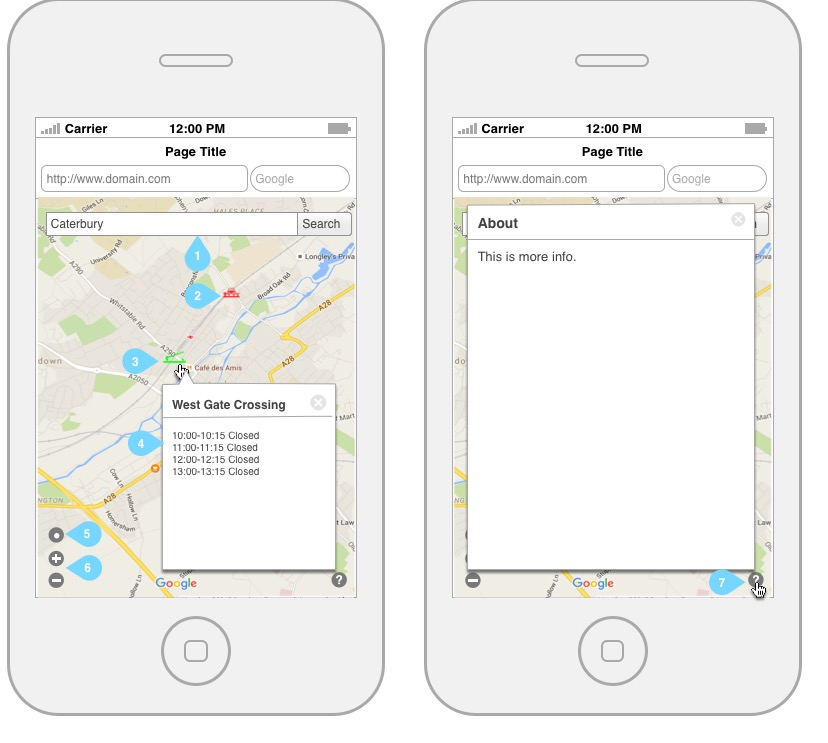
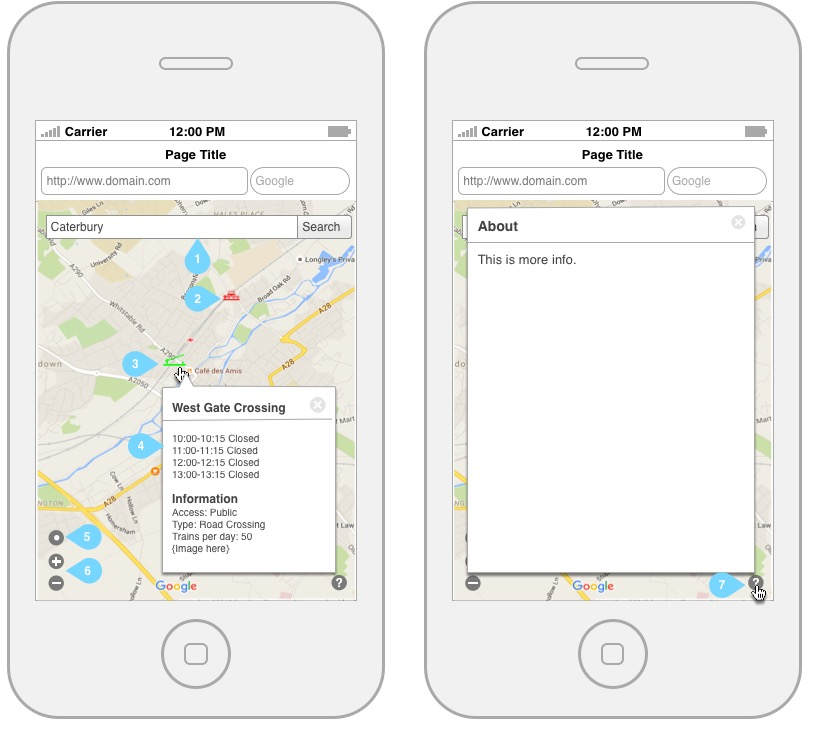
Improved the technical docs more

diff --git a/Docs/Technical overview.md b/Docs/Technical overview.md
@@ -1,0 +1,25 @@
+# Technical Overview
+This document providers a more techincal indepth view of the system and how each component works and interacts with its neighbouring components.
+
+
+![image](images/omnigraffle-designs/Technical.jpg)
+
+
+### 1. Browser Interface
+The primary access to the site and its data will be through a website accessible by a user using any internet enabled device such as a laptop, smart phone or tablet. This will work by providing a a web application from the application server which will then request data from the API server. We plan to support the top 4 major browsers, IE, Chrome, Safari and Firefox.
+
+### 2. API Interface
+This project will also allow users to access the train time data via the API directly which will mean creating a documenting this system. Users will not be rate limited all require an API key and will reply on a strong system architucre that could cope with any level of demand from the users. API access will allow other developers to create more apps with our data such as a a Navigiation app that facotors in crossing locations and times.
+
+### 3. Web App
+The web app will be the code that creates and interface for the browsers to allow humans users to interact with the data. It will use several of the latest techongilies that will effiect display to the use in an entitive monour data about each crossing. As specificed in [1. Browser Inteface](#1. Browser Interface) it will be cross browser and cross device so that it provides maximum accessibility.  
+[A more technical overview can be read here.](Web App/Technical overview.md)
+
+### 4. API
+The API server will server data from the data base to the users and 3rd party services. It will be resonsible for read and validating the requests, as well as caching the requests for performance.
+
+### 5. Storage/Processing
+The database provides 2 main purposes. Firslty it will be storeing all the data for the crossing, as well as current and historical train times. Its second purpose is to do all the the anaylitsts on the data to calculate when which crossings will be up or down. Leaving this logic the in database will provide a massive performance gains in calculation times of repeat and new data requests.
+
+### 6. Data Collection
+The data collection service will be in charge off peridically collecting data from National Rail and Network Rail, checking that the data is correct and storing it into the database.

diff --git a/Docs/Web App/Technical overview.md b/Docs/Web App/Technical overview.md
@@ -1,9 +1,20 @@
 # Technical Overview
 
 ### How it works
-The site will use AngularJS to run the webpage. After loading the page and it resources it will connect to the API and periodically down the the data for the crossing passing this data into the angular scope. Angular will use the HTML markup to update the icons on the screen automatically. 
+#### General
+The site will use AngularJS to run the webpage. SCSS to build the style sheets. And grunt which will automatically build the style sheets and do any maniplucation on the resources.
 
+#### Map
+After loading the page and it resources it will connect to the API and periodically pull down down the latest data for the crossings and pass this data into the angular scope. Angular will use the HTML markup to update the icons on the screen automatically. This will provide a simple, maintinable but powerfull method of working.
+
+##### Crossing Details
 When a user clicks on a crossing icon this will bring up a popup that will pull more complex future data about when crossing will be closed as well as meta data about the crossing its self.
+
+##### About
+The the bottom left hand corner of the screen there will be a **?** icon. When a user clicks with it will open a modal that will have details about the projet and the data that went into it.
+
+##### Testing
+\#RyanFillThisInPlease (Something about mocha, karma and CI please)
 
 ### Technologies
 - AngularJS (Javascript framework)

diff --git a/Readme.md b/Readme.md
@@ -1,17 +1,20 @@
 # Level Crossing Predictor
-Final year project.
 
+### Scope Statement
+We will track the trains. We will map the crossing. We will prodict the future!
+\#JoshMakeThisNicerPlease
 
 ## Table of Contents
 * System:
-	* [Overview](Docs/System overview.md)
-* Development plan:
+	* [Top level overview](Docs/Top level overview.md)
+	* [Technical overview](Docs/Technical overview.md)
+* Development:
 	* [Environment](Docs/environment.md)
 	* [Workflow](Docs/Development workflow.md)
-* Web App
-	* [UI Designs](Docs/Web App/UI Designs.md)
-	* [Technical overview](Docs/Web App/Technical overview.md)
 * [Data Collection](Docs/Data Collection/index.md)
 * [Database](Docs/Database/index.md)
 * [Deployment](Docs/Deployment/index.md)
 * [API](Docs/API/index.md)
+* Web App
+	* [UI Designs](Docs/Web App/UI Designs.md)
+	* [Technical overview](Docs/Web App/Technical overview.md)

diff --git a/Docs/Data Collection/index.md b/Docs/Data Collection/index.md
@@ -1,1 +1,4 @@
 #Data Collection docs go here
+
+### Flow Chart
+![image](../images/omnigraffle-designs/Flow Diagram - Section 6.jpg)

diff --git a/Docs/API/index.md b/Docs/API/index.md
@@ -1,1 +1,5 @@
 #API Docs go here
+
+### Flow Chart
+
+![image](../images/omnigraffle-designs/Flow Diagram - Section 6.jpg)

diff --git a/Docs/Top level overview.md b/Docs/Top level overview.md
@@ -1,4 +1,4 @@
-# System Overview
+# Top Level Overview
 
 ![image](images/omnigraffle-designs/Overview.jpg)
 
